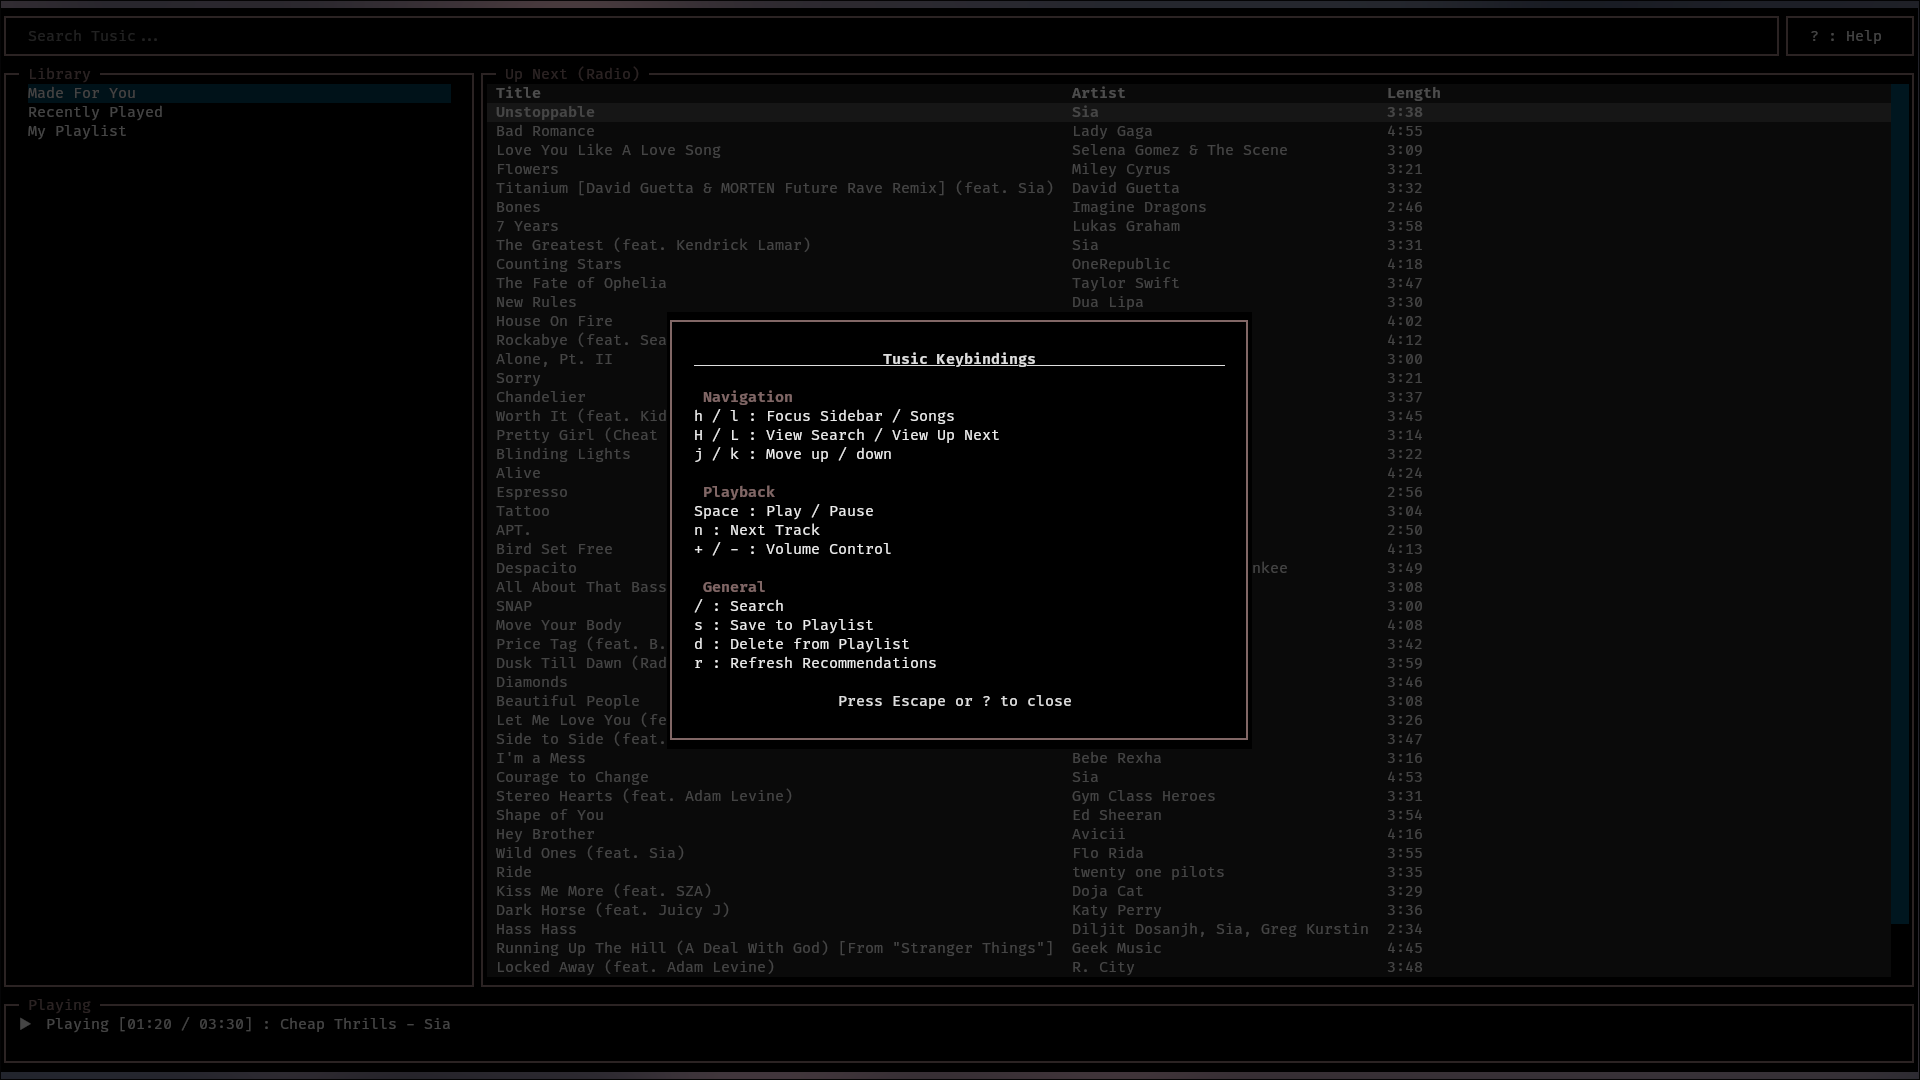
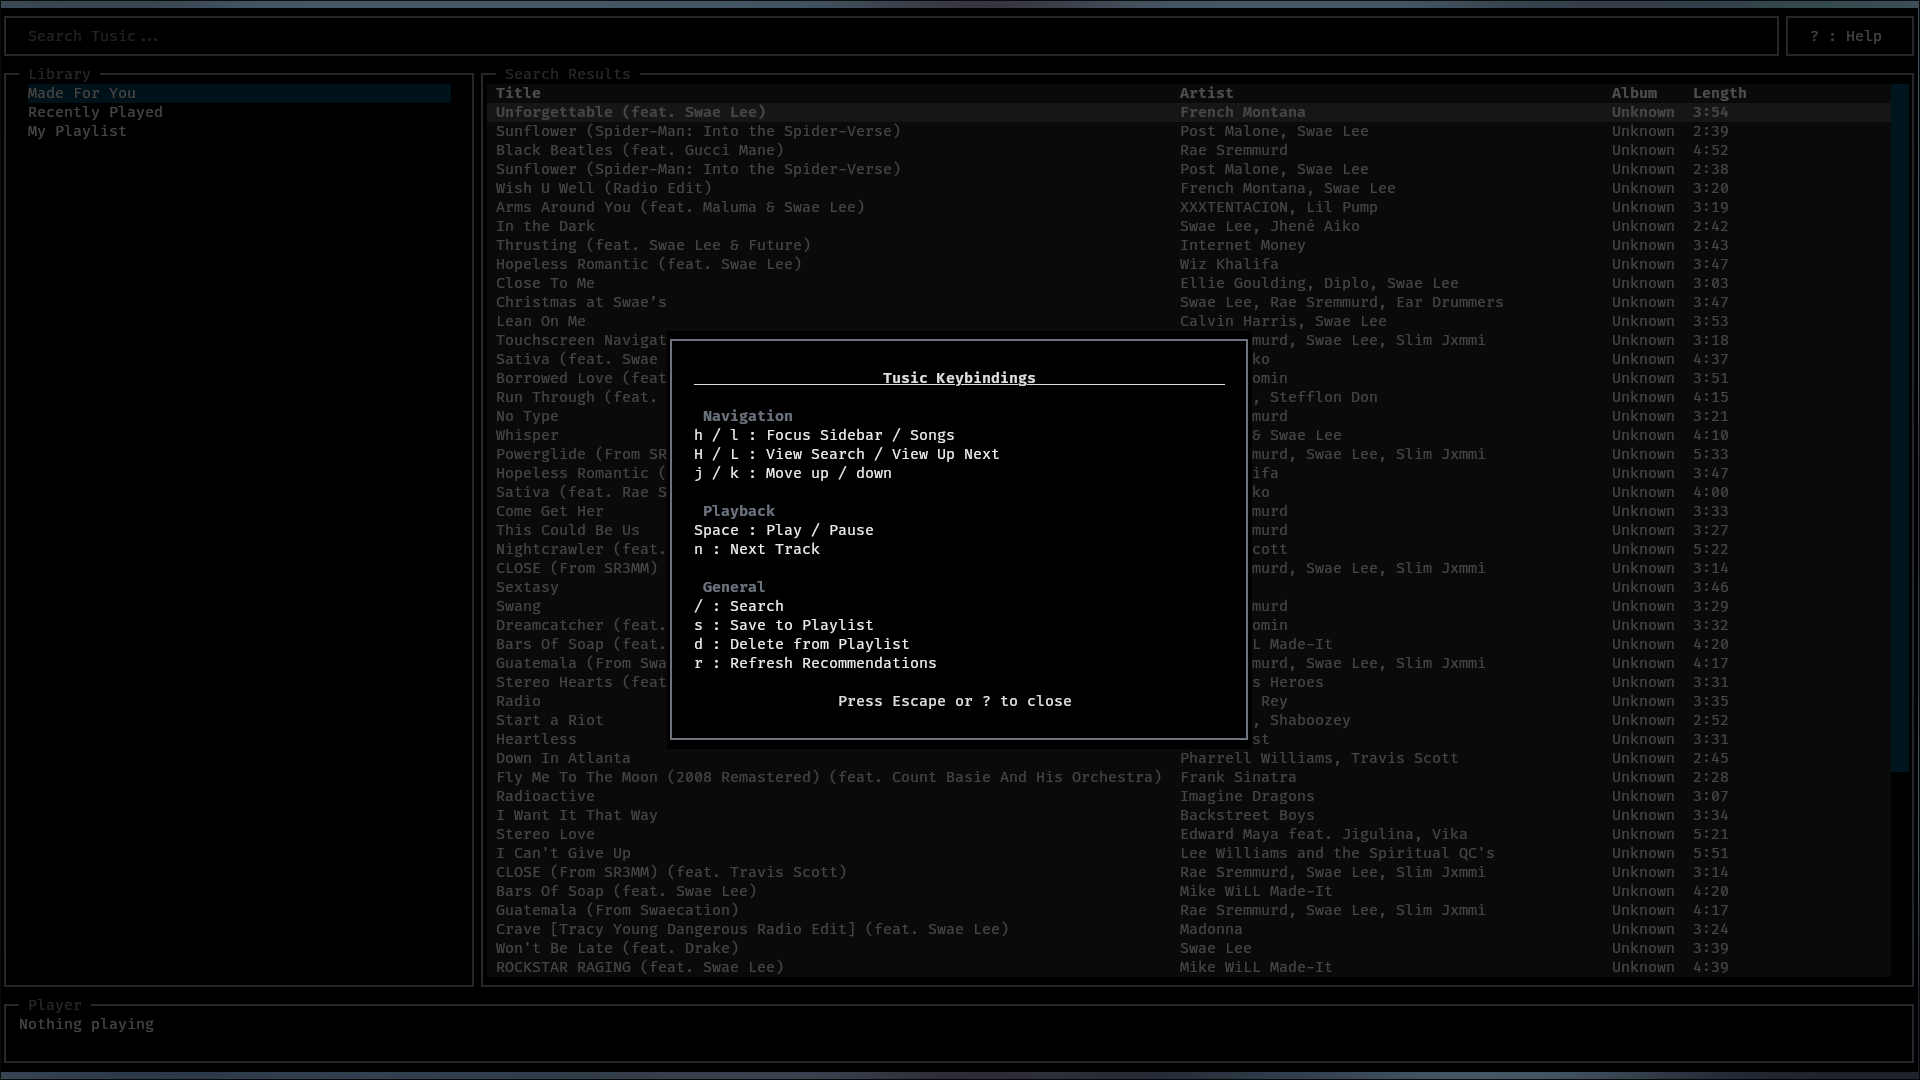
ui improvements

diff --git a/app/main.py b/app/main.py
@@ -36,7 +36,7 @@ class HelpScreen(ModalScreen):
             yield Label("h / l : Focus Sidebar / Songs\nH / L : View Search / View Up Next\nj / k : Move up / down", classes="help_text")
             
             yield Label(" Playback ", classes="help_header")
-            yield Label("Space : Play / Pause\nn : Next Track\n+ / - : Volume Control", classes="help_text")
+            yield Label("Space : Play / Pause\nn : Next Track", classes="help_text")
             
             yield Label(" General ", classes="help_header")
             yield Label("/ : Search\ns : Save to Playlist\nd : Delete from Playlist\nr : Refresh Recommendations", classes="help_text")
